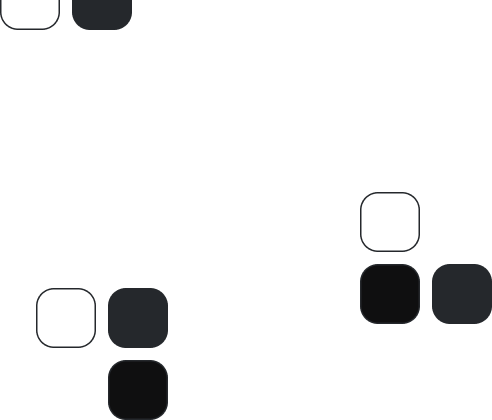
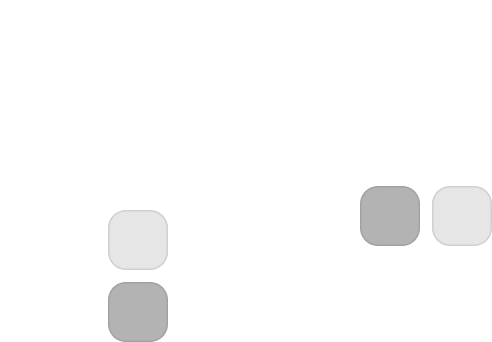
Reduced Production Costs section update

diff --git a/src/components/whyCauldron.jsx b/src/components/whyCauldron.jsx
@@ -1,7 +1,16 @@
 import { whyIcon1, whyIcon2, whyIcon3 } from "../assets/image";
 import React, { useState, useEffect } from "react";
 import { motion } from "framer-motion";
-import { Cam, Wallet, Mic, Comment, Bg1, Bg2, Bg3, Bg4 } from "../assets/image";
+import {
+  Faceless,
+  Mic,
+  Wallet,
+  Customize,
+  Bg1,
+  Bg2,
+  Bg3,
+  Bg4,
+} from "../assets/image";
 export default function WhyCauldron() {
   const [isHovering, setIsHovering] = useState([false, false, false]);
   const numOfLines = (text) => {
@@ -13,8 +22,8 @@ export default function WhyCauldron() {
   const data = [
     {
       text: "Faceless videos allow for a consistent visual style and branding that isn’t reliant on the creator’s appearance, which can be more scalable.",
-      src: Cam,
-      name: "Cam",
+      src: Faceless,
+      name: "Faceless",
       bg: Bg1,
     },
     {
@@ -31,7 +40,7 @@ export default function WhyCauldron() {
     },
     {
       text: "Customizable subtitles ensure that videos are accessible to a broader audience, including those who are deaf .",
-      src: Comment,
+      src: Customize,
       name: "Comment",
       bg: Bg4,
     },
@@ -65,9 +74,18 @@ export default function WhyCauldron() {
           {data.map(({ text, src, name, bg }, index) => (
             <React.Fragment key={index}>
               <div className={"mb-4 text-pretty" + numOfLines(text)}>
-                <div className="inner-shadow h- relative flex flex-col items-center justify-center gap-0 overflow-hidden rounded-2xl border border-[#2A2A2A66] p-2">
-                  <div className="flex bg-red-500">
-                    <div className="h-[160px] bg-orange-700"></div>
+                <div className="inner-shadow relative flex flex-col items-center justify-center gap-0 overflow-hidden rounded-2xl border border-[#0b2f5649] p-2">
+                  <div className="flex">
+                    <div className="absolute -top-1/2 left-1/2 z-0 h-[175px] w-[175px] -translate-x-1/2 -translate-y-1/2 rounded-full bg-[#0071E3] blur-[80px]"></div>
+                    <div className="h-[120px] z-30">
+                      <img
+                        src={src}
+                        alt
+                        name="icon"
+                        draggable="false"
+                        className="absolute left-1/2 top-[30%] -translate-x-1/2 -translate-y-1/2"
+                      />
+                    </div>
                     <img
                       className="absolute left-1/2 top-1/4 z-0 -translate-x-1/2 -translate-y-1/2 scale-[45%] select-none"
                       src={bg}

diff --git a/src/assets/image.jsx b/src/assets/image.jsx
@@ -26,10 +26,10 @@ import Bg2 from "./images/Bg2.png";
 import Bg3 from "./images/bg3.png";
 import Bg4 from "./images/Bg4.png";
 import Send from "./svg/send.svg";
-import Cam from "./images/Cam.png";
-import Mic from "./images/Mic.png";
-import Wallet from "./images/Wallet.png";
-import Comment from "./images/Comment.png";
+import Faceless from "./svg/Faceless.svg";
+import Mic from "./svg/Mic.svg";
+import Wallet from "./svg/Wallet.svg";
+import Customize from "./svg/Customize.svg";
 
 export  {
     Cauldron,
@@ -48,10 +48,10 @@ export  {
     whyIcon3,
     Bg,
     Send,
-    Cam,
+    Faceless,
     Mic,
     Wallet,
-    Comment,
+    Customize,
     Bg1,
     Bg2,
     Bg3,

diff --git a/src/index.css b/src/index.css
@@ -61,7 +61,7 @@ body {
 
 .inner-shadow {
   background: linear-gradient(180deg, #12121266 0%, #0F101466 100%);
-  box-shadow: 0px 0px 15px hsl(202, 92%, 67%, 3%) inset;
+  box-shadow: 0px 0px 15px #5dc0f814 inset;
 }
 
 ::selection {
